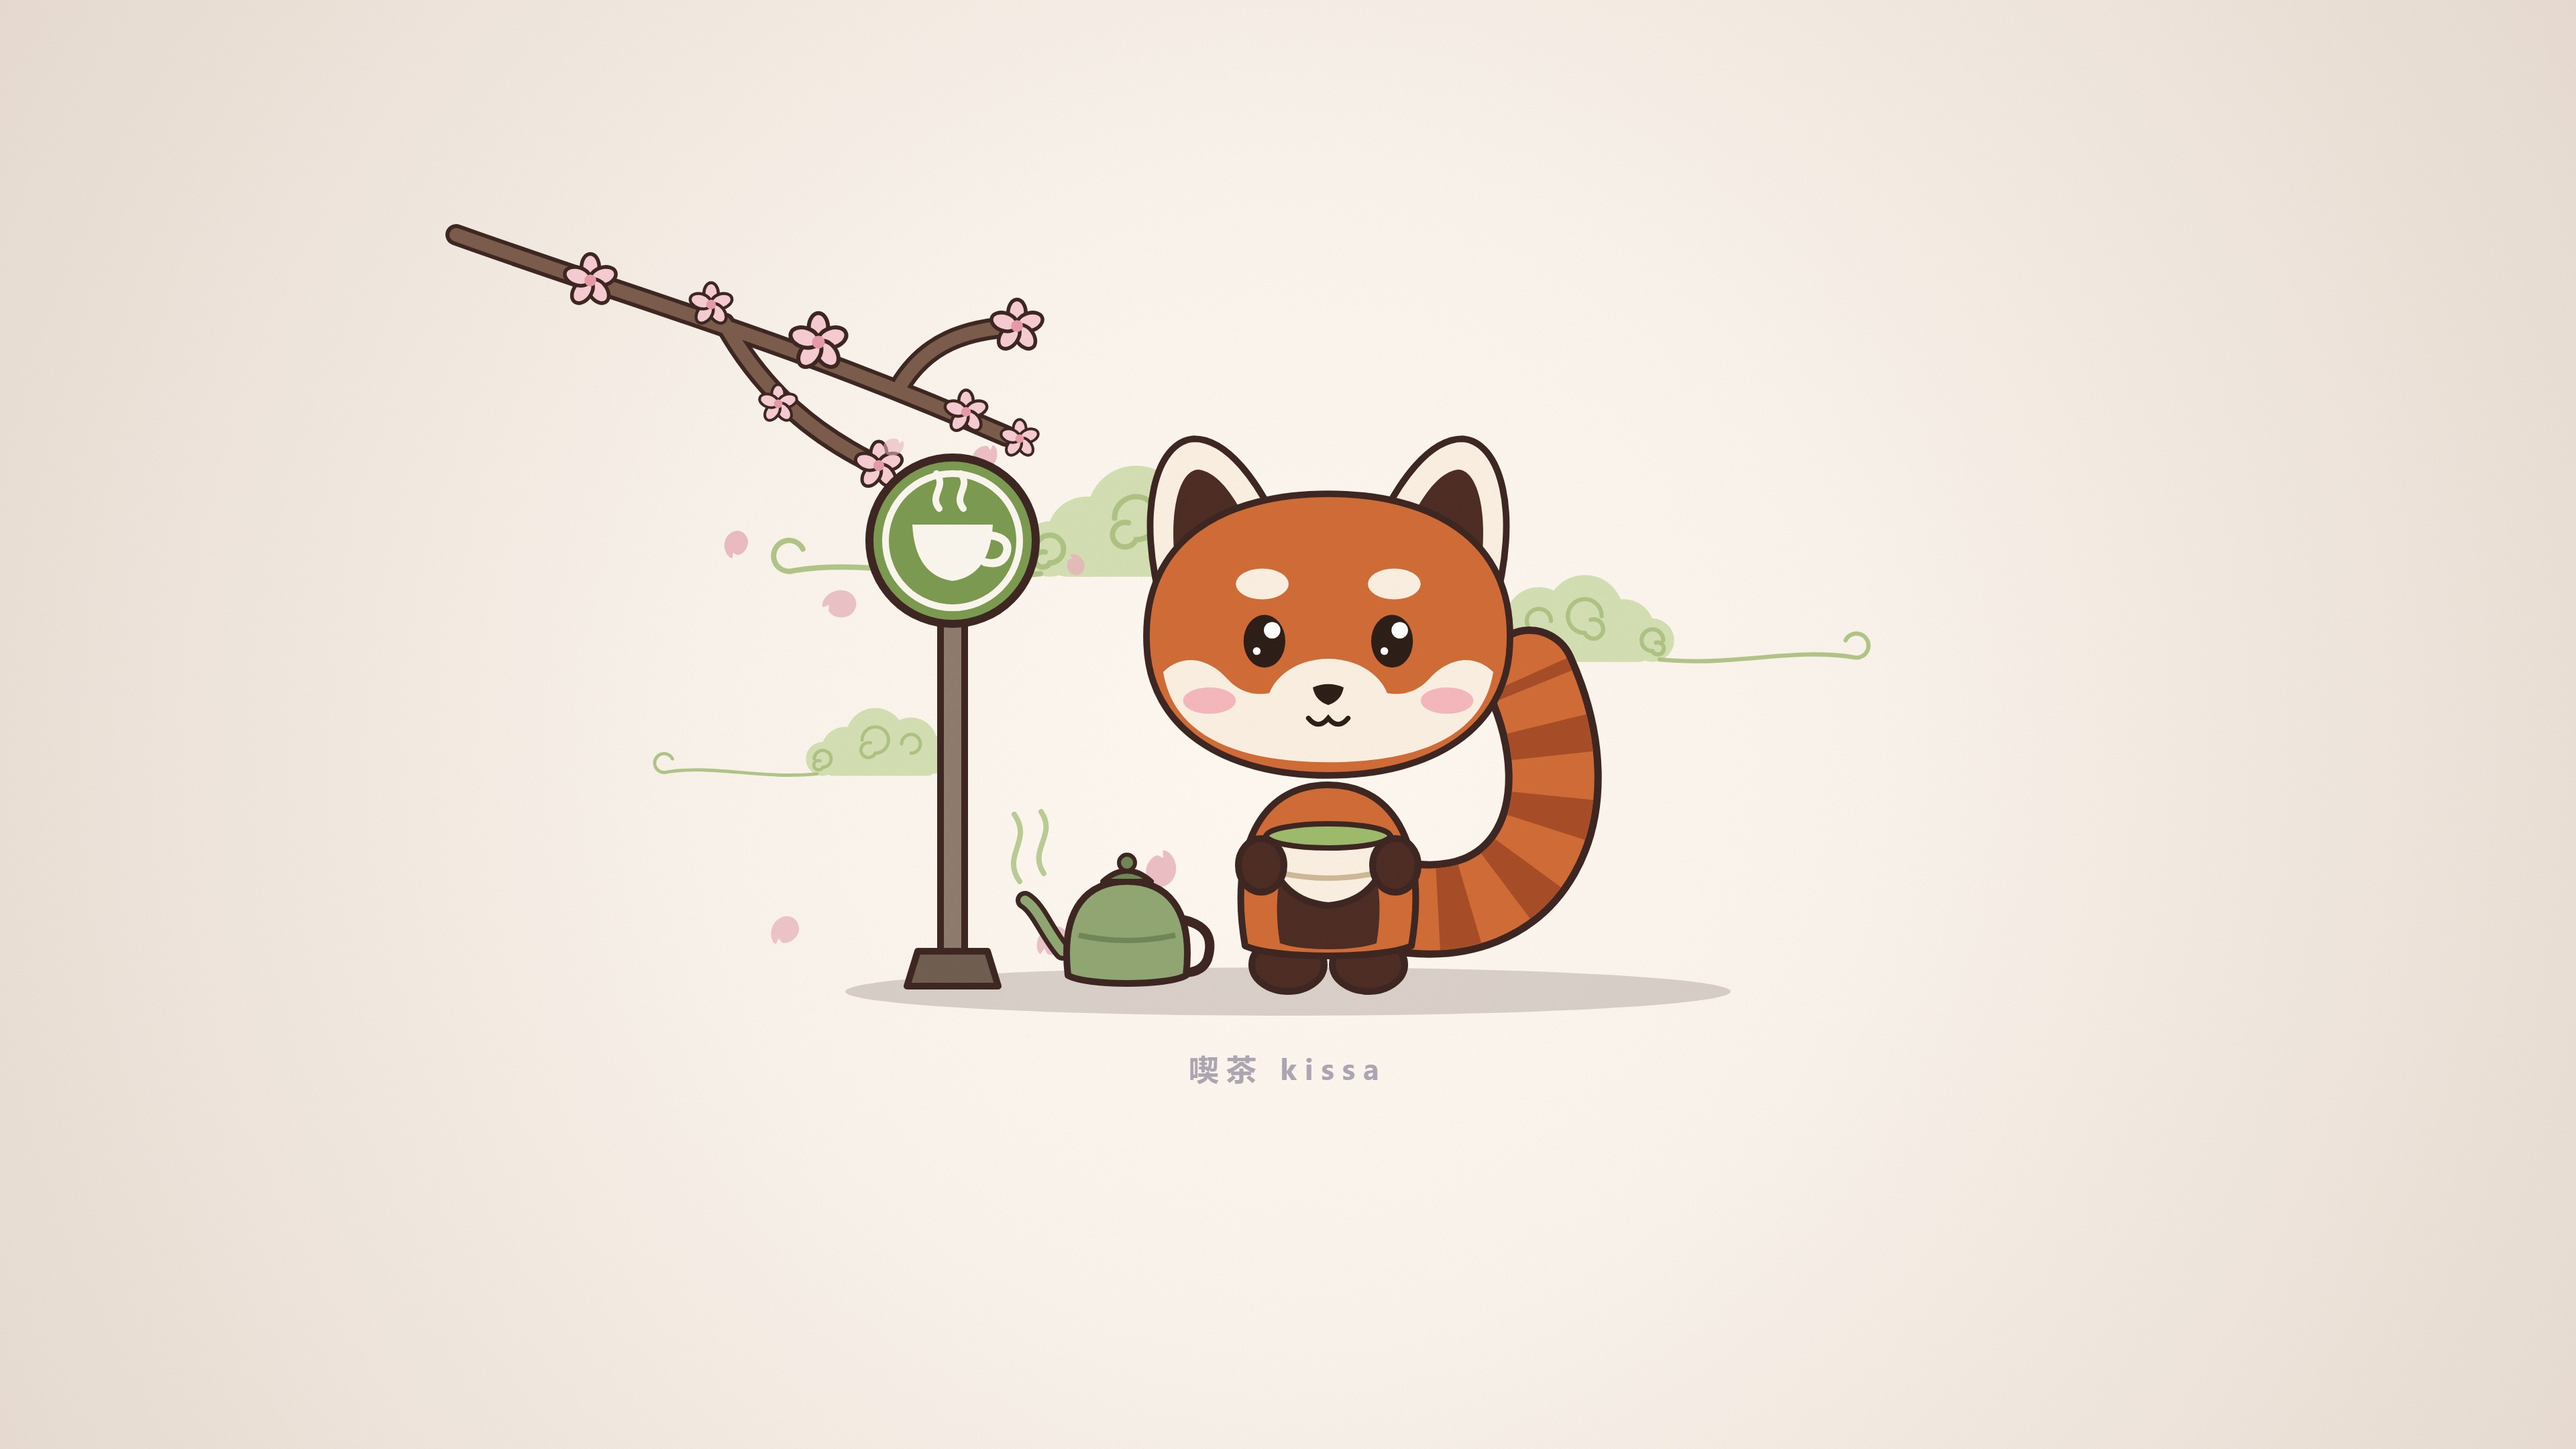
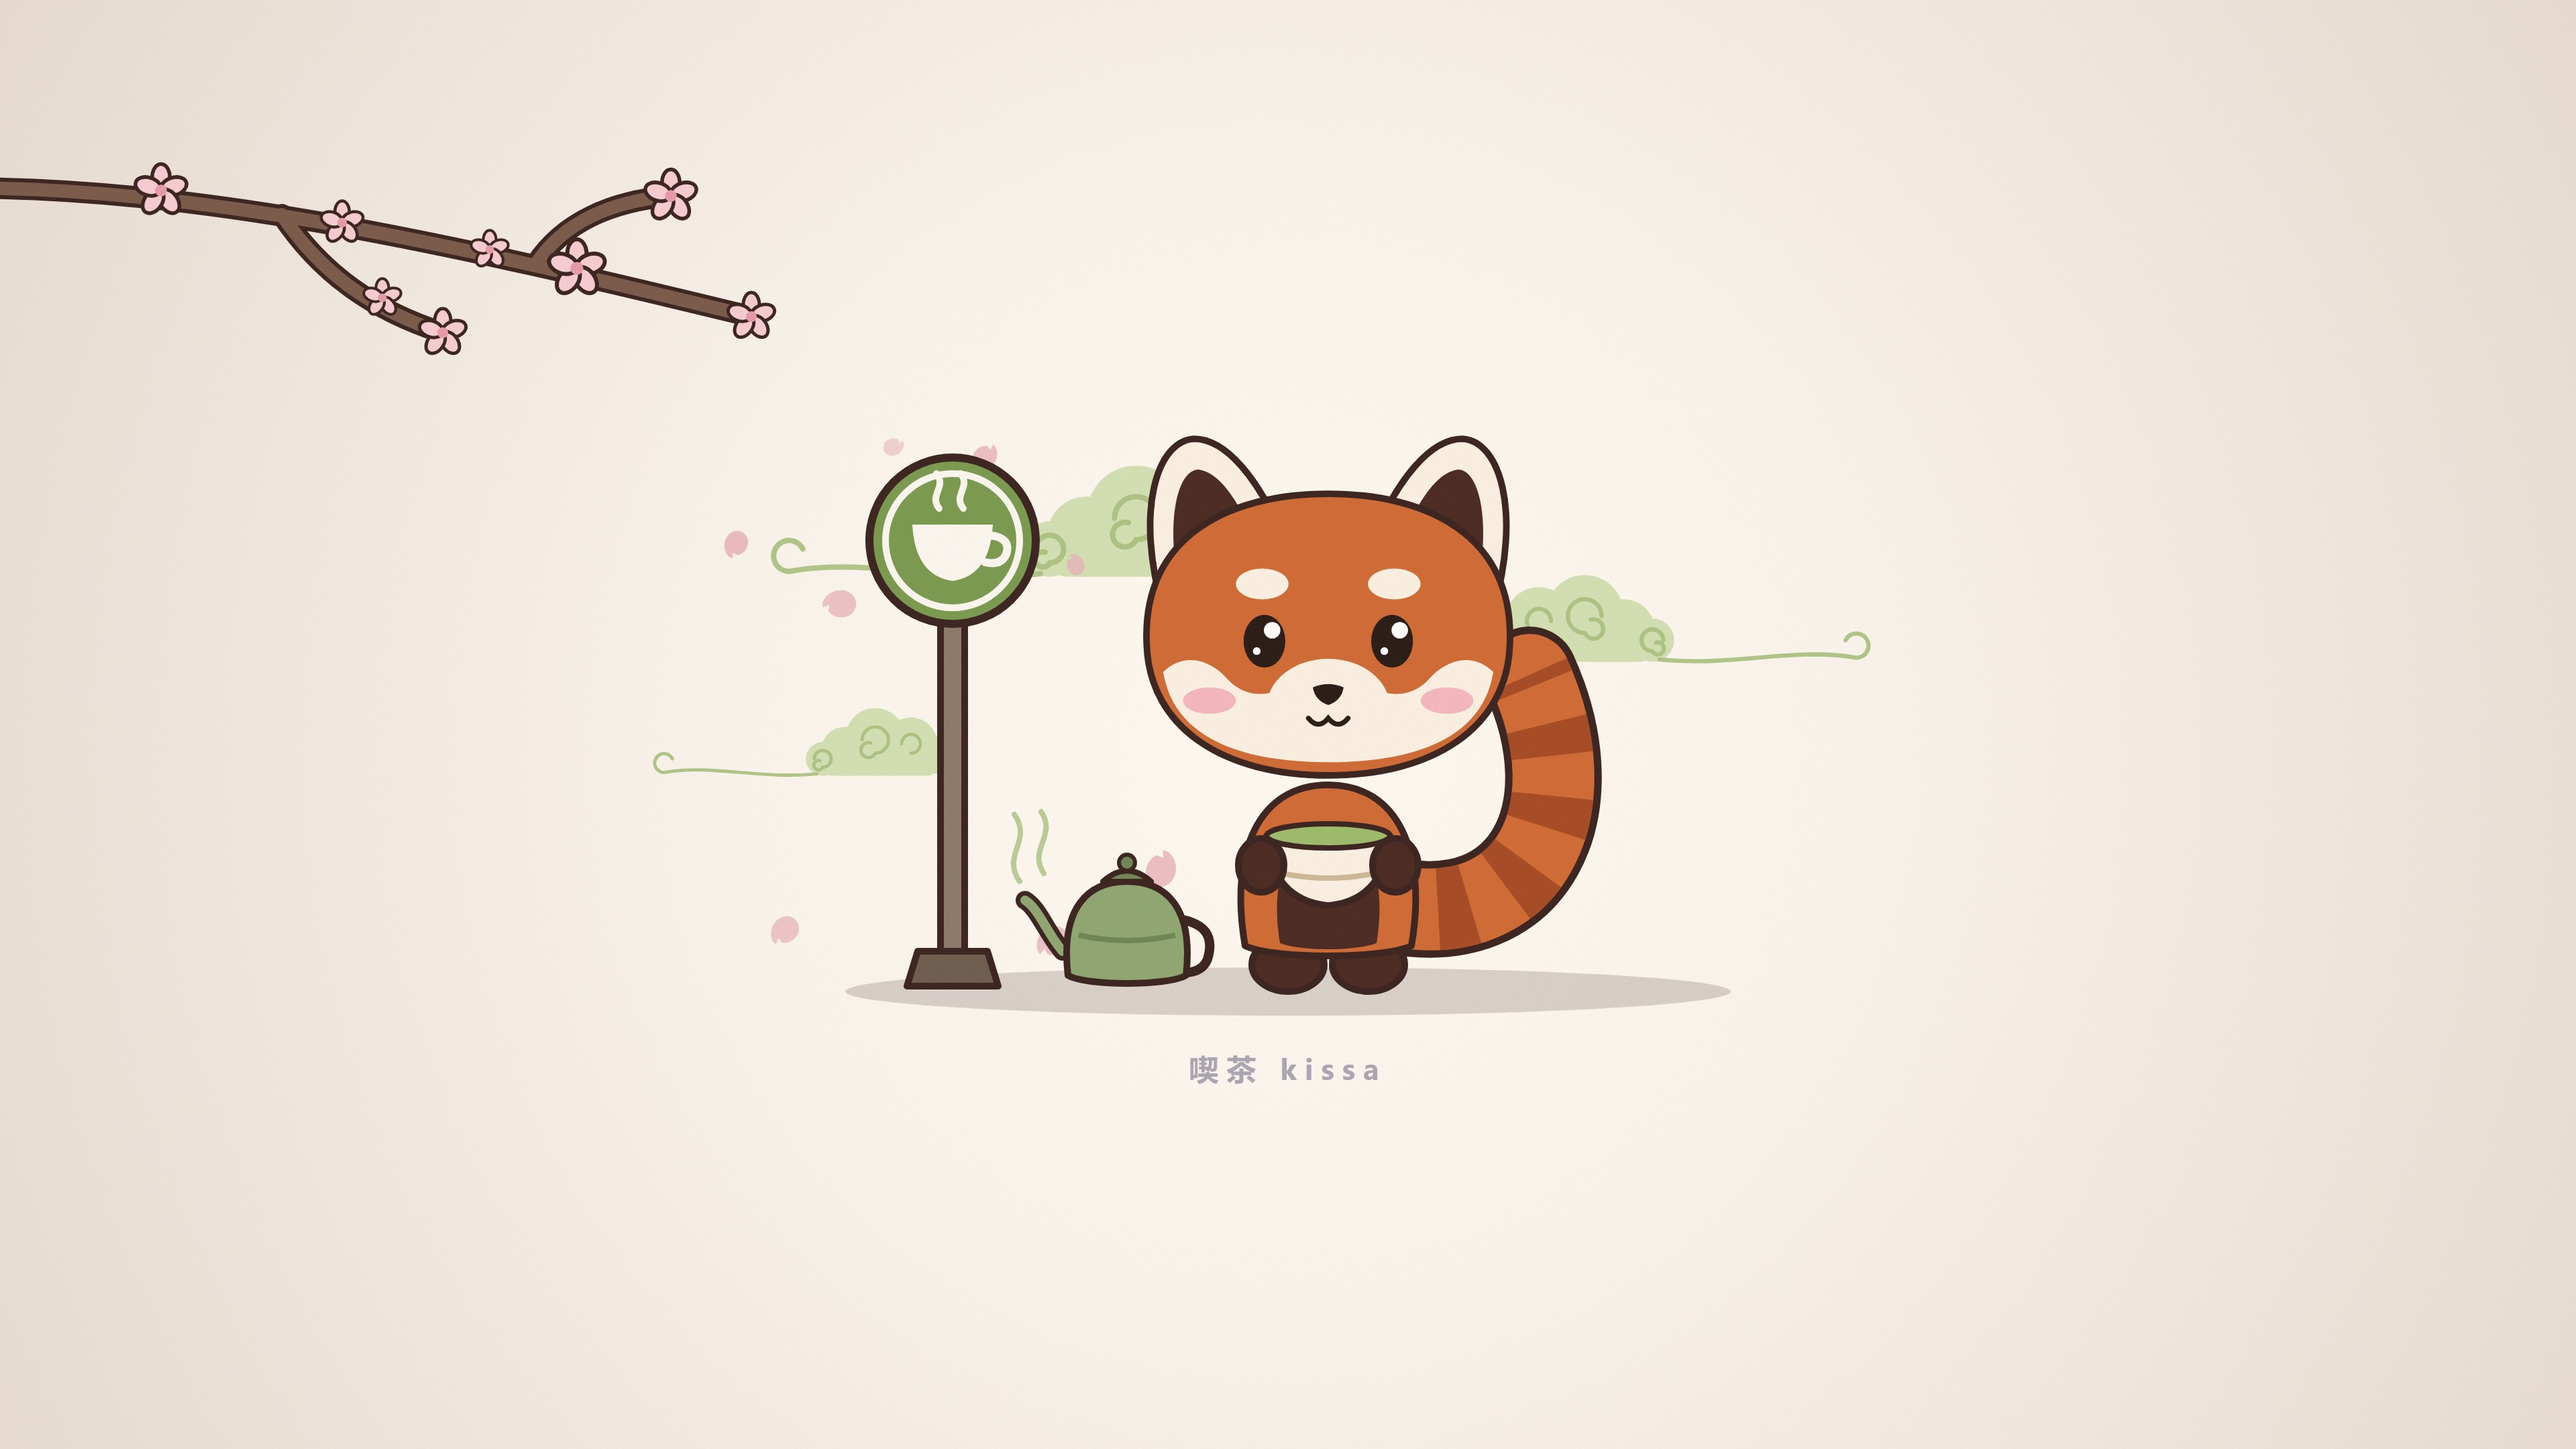
fix: Hintergrund folgt hell/dunkel, Mauszeiger wird sicher gesetzt, Kirschzweig frei
- Wallpaper wird als Paket gesetzt statt als Einzelbild: Plasma wählt Tag-
  oder Nachtversion selbst passend zum Farbschema, auch beim Umschalten in
  den Systemeinstellungen.
- apply_theme setzt den Mauszeiger kissa-cursors ausdrücklich, da das
  Global Theme ihn nicht zuverlässig übernimmt.
- Frühling: Kirschzweig ragt vom linken Rand in den Himmel und wächst nicht
  mehr aus dem Schild.

Changed region(s): [[0.0, 0.1241, 0.4062, 0.3412], [0.1562, 0.2171, 0.1875, 0.2481]]

diff --git a/tools/gen_wallpaper.py b/tools/gen_wallpaper.py
@@ -165,14 +165,15 @@ def blossom(x, y, s):
 
 
 def sakura_branch():
-    x0, y0 = CX - 540, 215
-    twigs = (f'<path d="M{x0-80} {y0-40} C{x0+60} {y0+10} {x0+170} {y0+40} {x0+330} {y0+110}" />'
-             f'<path d="M{x0+120} {y0+26} C{x0+150} {y0+80} {x0+190} {y0+110} {x0+230} {y0+130}" />'
-             f'<path d="M{x0+250} {y0+74} C{x0+270} {y0+40} {x0+300} {y0+30} {x0+340} {y0+28}" />')
+    # Zweig ragt vom linken Bildrand in den Himmel und endet frei in der Luft –
+    # deutlich über und links vom Schild (Schildkopf: x 648–772, y ab 341).
+    twigs = ('<path d="M-30 140 C150 140 330 180 560 236" />'          # Hauptast, dünner werdend gedacht
+             '<path d="M210 160 C240 205 280 232 330 248" />'          # Zweig nach unten
+             '<path d="M400 196 C420 166 455 150 500 146" />')         # Zweig nach oben
     wood = (f'<g fill="none" stroke-linecap="round"><g stroke="{LINE}" stroke-width="16">{twigs}</g>'
             f'<g stroke="#7A5A4A" stroke-width="10">{twigs}</g></g>')
-    spots = [(x0+20, y0-6, 1.1), (x0+110, y0+12, .9), (x0+190, y0+40, 1.2), (x0+235, y0+132, 1.0),
-             (x0+300, y0+92, .9), (x0+338, y0+28, 1.1), (x0+160, y0+86, .8), (x0+340, y0+112, .8)]
+    spots = [(120, 142, 1.1), (255, 166, .9), (330, 248, 1.0), (285, 222, .8),
+             (430, 200, 1.2), (500, 146, 1.1), (560, 236, 1.0), (365, 186, .8)]
     return wood + "".join(blossom(x, y, sc) for x, y, sc in spots)
 
 
